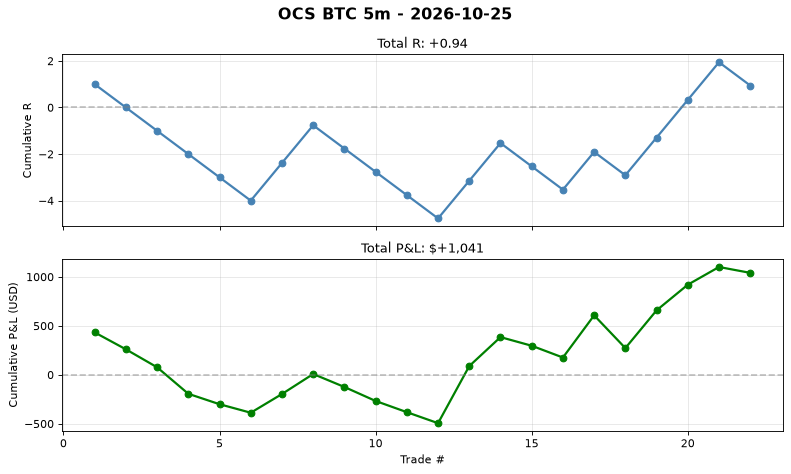
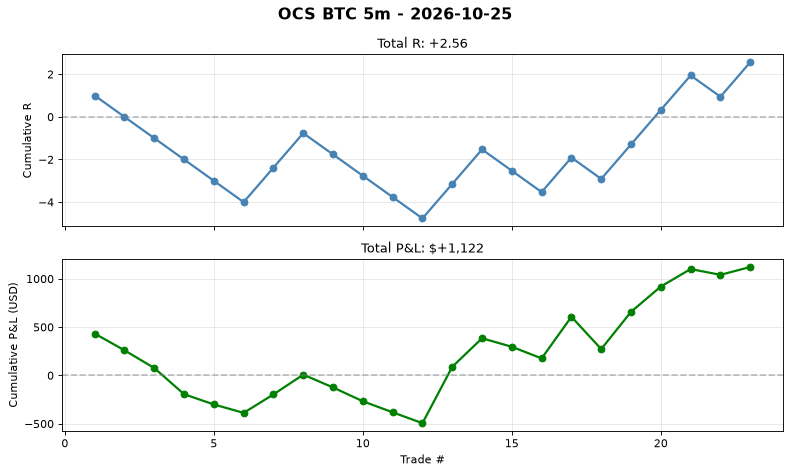
auto(ocs-btc): signal log 2026-10-25T06:50 trades=23

diff --git a/automation/reports/ocs_btc_5m/daily/2026-10-25.md b/automation/reports/ocs_btc_5m/daily/2026-10-25.md
@@ -1,16 +1,16 @@
 # OCS BTC 5m - 2026-10-25
 
 ## Summary
-- **Trades**: 2 (1W / 1L)
-- **Win Rate**: 50.0%
-- **Total R**: +0.62R
-- **Total P&L**: $+121
-- **Avg R**: +0.31R
-- **Profit Factor**: 1.07
+- **Trades**: 3 (2W / 1L)
+- **Win Rate**: 66.7%
+- **Total R**: +2.24R
+- **Total P&L**: $+202
+- **Avg R**: +0.75R
+- **Profit Factor**: 1.2
 
 ## Exit Breakdown
 - T1 (+1.0R): 1
-- T2 (+1.618R): 8
+- T2 (+1.618R): 9
 - T3 (+2.618R): 0
 - T4 (+3.618R): 0
 - T5 (+5.0R): 0
@@ -27,11 +27,11 @@
 - Held for 5 bars
 
 ## Cumulative Stats (Lifetime)
-- Total trades: 22
-- WR: 40.9%
-- Avg R: 0.043
-- Total R: +0.94R
-- Profit Factor: 1.07
+- Total trades: 23
+- WR: 43.5%
+- Avg R: 0.111
+- Total R: +2.56R
+- Profit Factor: 1.2
 
 ## Chart
 See `daily/2026-10-25.png` for cumulative P&L curve.
